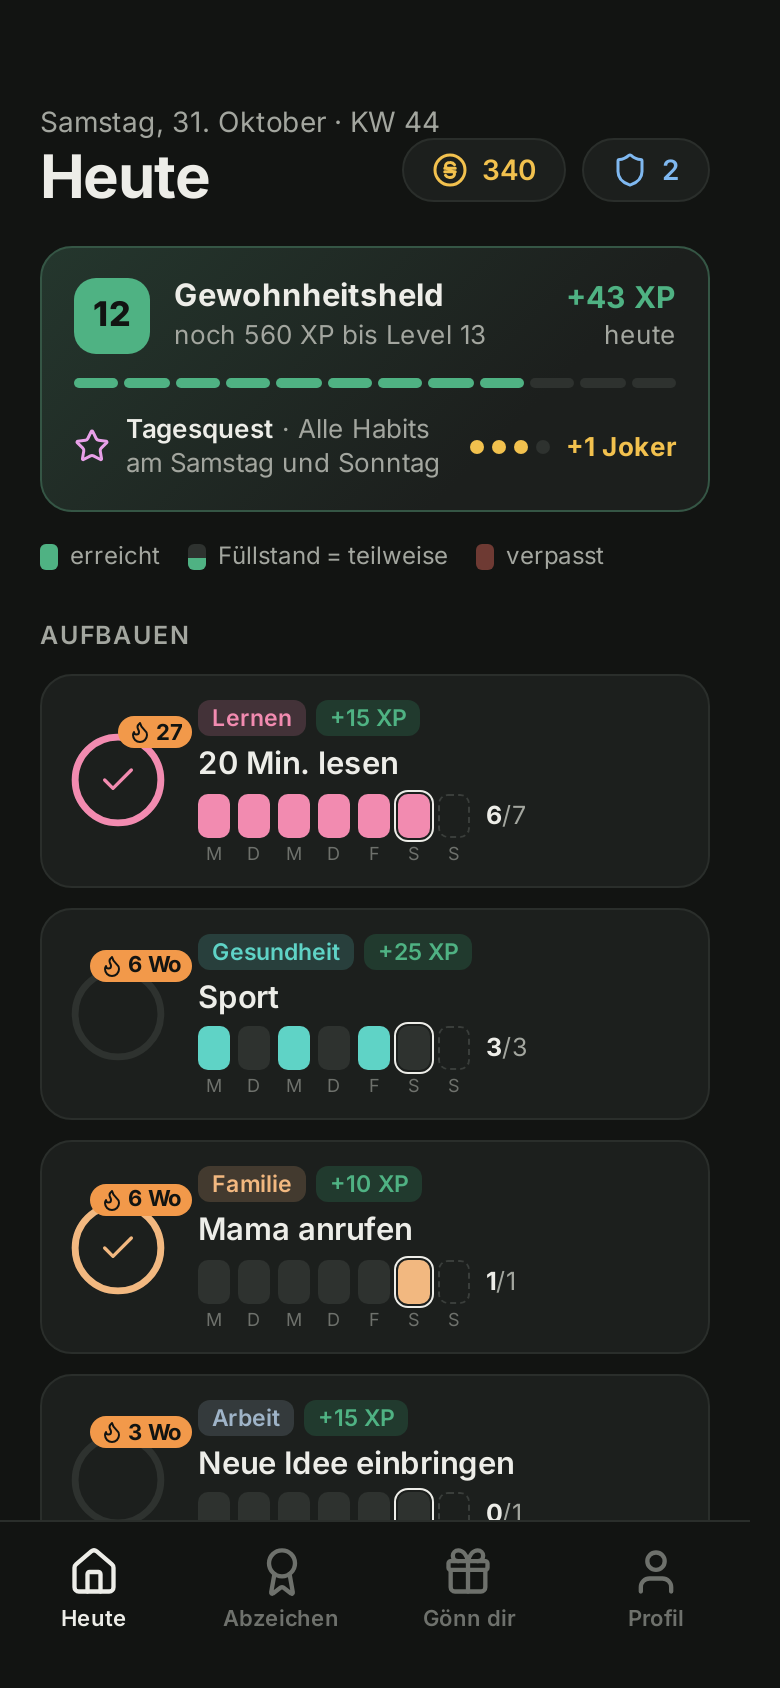
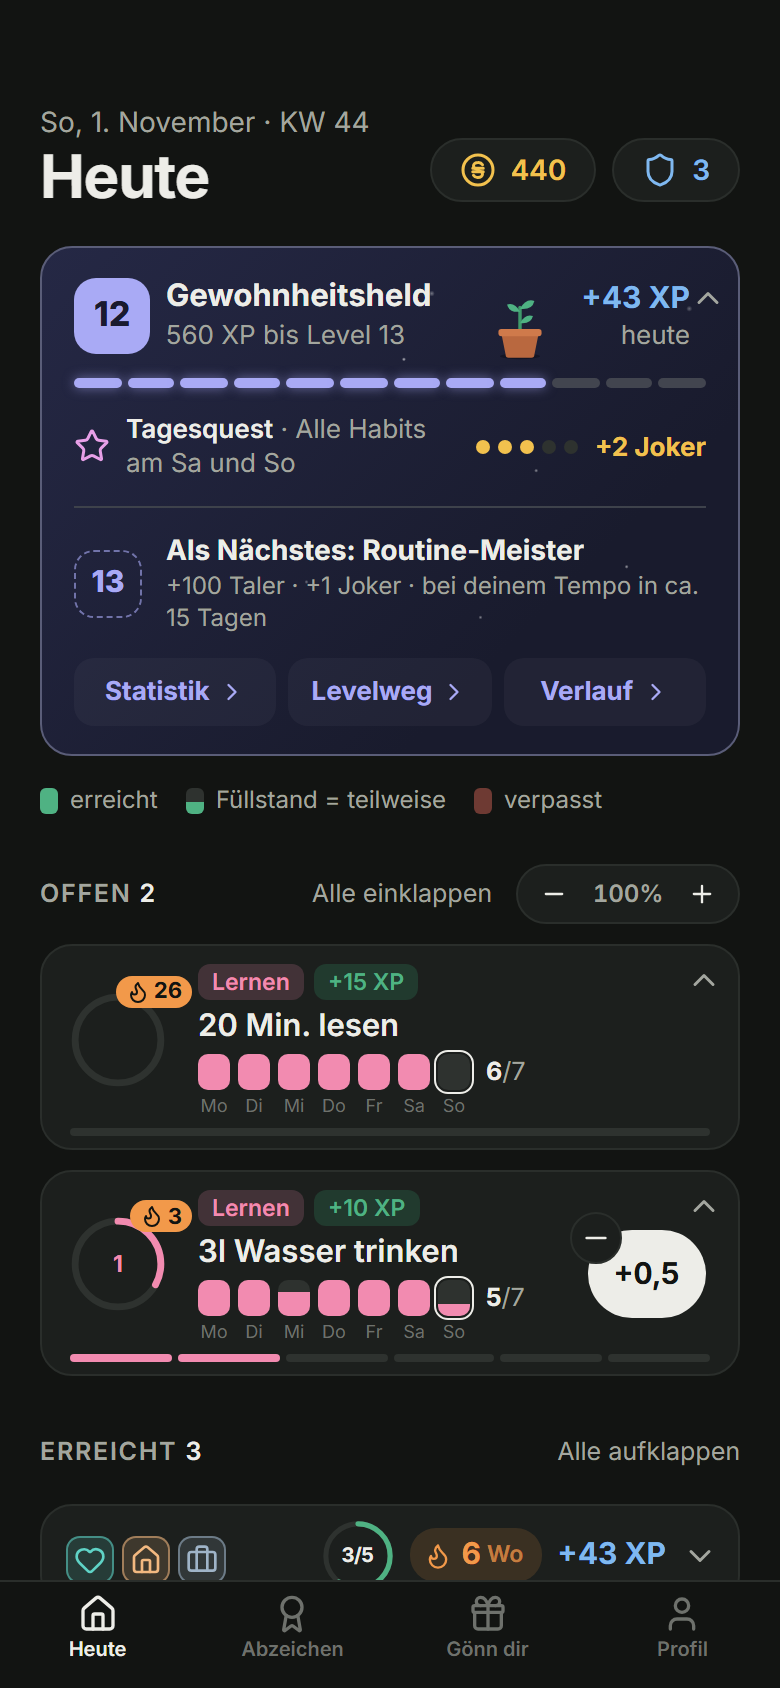
docs: fewer and stronger screenshots in the README
Four phone shots replace the eight older ones: Today, the level statistics, the streak sheet and a habit with its tips.

diff --git a/README.md b/README.md
@@ -3,18 +3,10 @@
 A lightweight, self-hosted habit tracker with rewards. Build good habits, break bad ones, and treat yourself when you stick with it. Runs as a single Docker container.
 
 <p>
-  <img src="docs/screenshots/01-Heute.png" width="220" alt="Today screen">
-  <img src="docs/screenshots/02-Statistik.png" width="220" alt="Habit statistics">
-  <img src="docs/screenshots/03-Tagesquest.png" width="220" alt="Daily quest">
-</p>
-<p>
-  <img src="docs/screenshots/04-Goenn-dir.png" width="220" alt="Reward shop">
-  <img src="docs/screenshots/05-Abzeichen.png" width="220" alt="Badges">
-  <img src="docs/screenshots/06-Vorlagen.png" width="220" alt="Template library">
-</p>
-<p>
-  <img src="docs/screenshots/07-Admin-Levels.png" width="440" alt="Admin: levels">
-  <img src="docs/screenshots/08-Admin-Tagesquests.png" width="440" alt="Admin: daily quests">
+  <img src="docs/screenshots/01-Heute.png" width="200" alt="Today with level card and habits">
+  <img src="docs/screenshots/02-Mein-Level.png" width="200" alt="Level statistics">
+  <img src="docs/screenshots/03-Serien.png" width="200" alt="Streak overview">
+  <img src="docs/screenshots/04-Muster-Tipps.png" width="200" alt="Habit week view with patterns and tips">
 </p>
 
 The screenshots show the app with demo data. The UI language is German.
